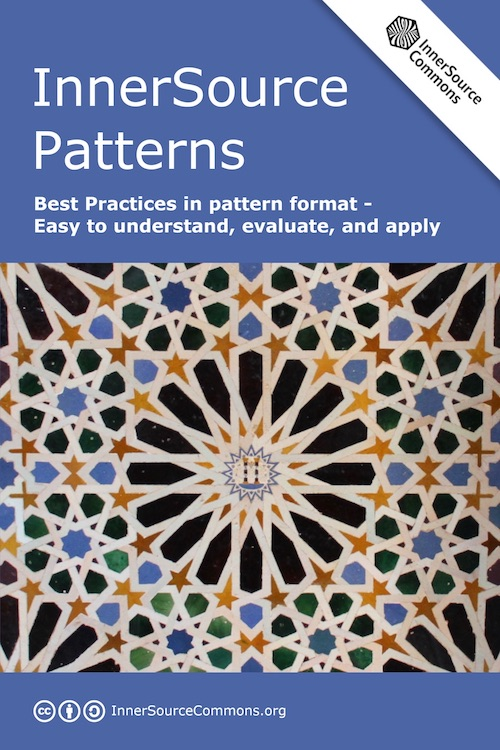
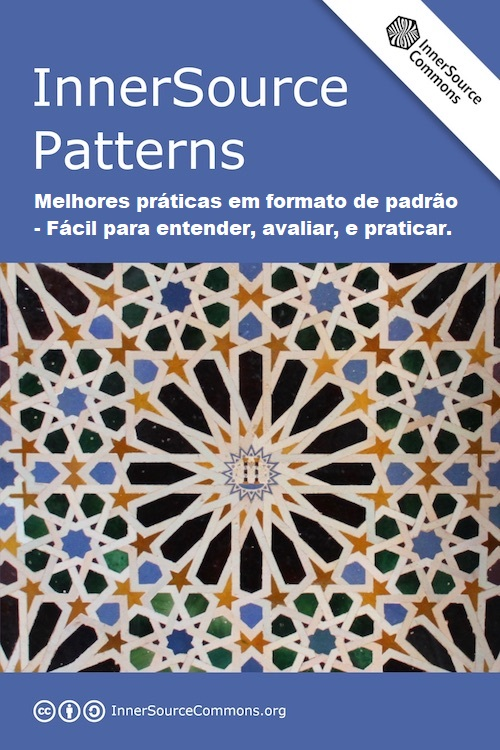
translation book cover and explore-patterns.md to ptbr

Changed region(s): [[0.06, 0.2453, 0.93, 0.3373]]

diff --git a/book/pt/explore-patterns.md b/book/pt/explore-patterns.md
@@ -1,19 +1,19 @@
 # Explore Patterns
 
-More and more patterns are contributed to this book by the InnerSource Commons community. That is awesome!
+Cada vez mais padrões estão sendo contribuídos para este livro pela comunidade InnerSource Commons. Isso é incrível!
 
-Now how to make it easy for readers to discover the patterns that can help them in their particular situation?
+Agora, como tornar mais fácil para os leitores descobrirem os padrões que podem ajudá-los em sua situação específica?
 
-For this purpose we provide this mind map. It **categorizes patterns based on the different phases of an InnerSource Program**, and the challenges that might appear in the respective phases.
+Para esse propósito, fornecemos este mapa mental. Ele **classifica os padrões com base nas diferentes fases de um Programa InnerSource** e nos desafios que podem surgir nas respectivas fases.
 
-![Mind Map of InnerSource Patterns](../../pattern-categorization/innersource-program-mind-map.png)
+![Mapa Mental dos Padrões InnerSource](../../pattern-categorization/innersource-program-mind-map.png)
 
-## Improve this Mind Map
+## Melhore este Mapa Mental
 
-If you notice anything in this mind map that looks wrong, please [open an issue](https://github.com/InnerSourceCommons/InnerSourcePatterns/issues), describing the problem and the fix that should be made.
+Se você notar algo neste mapa mental que pareça errado, por favor [abra uma issue](https://github.com/InnerSourceCommons/InnerSourcePatterns/issues), descrevendo o problema e a correção que deve ser feita.
 
-Further if you have other ideas for improving the discoverability of these patterns, or want to make this mind map better, review the documentation of our [Pattern Categorization](https://github.com/InnerSourceCommons/InnerSourcePatterns/blob/main/pattern-categorization/README.md) approach, and also check how to [contribute to this book](contribute.md).
+Além disso, se você tiver outras ideias para melhorar a descoberta desses padrões ou quiser tornar este mapa mental melhor, revise a documentação de nossa abordagem de [Categorização de Padrões](https://github.com/InnerSourceCommons/InnerSourcePatterns/blob/main/pattern-categorization/README.md) e também veja como [contribuir para este livro](contribute.md).
 
-## References
+## Referências
 
-The idea for categorizing patterns like this is loosely based a description in [Thoughts on an InnerSource Pattern Language](https://drive.google.com/file/d/13AY8glCOdpLOVuz7cVD6QOB8d2xbHCS1/view) by Tim Yao, Bob Hanmer and Padma Sudarsan (2018). For specifics see slide 15 in that slide deck.
+A ideia de categorizar os padrões dessa forma é vagamente baseada em uma descrição em [Thoughts on an InnerSource Pattern Language](https://drive.google.com/file/d/13AY8glCOdpLOVuz7cVD6QOB8d2xbHCS1/view) por Tim Yao, Bob Hanmer e Padma Sudarsan (2018). Para detalhes específicos, veja o slide 15 na apresentação.
